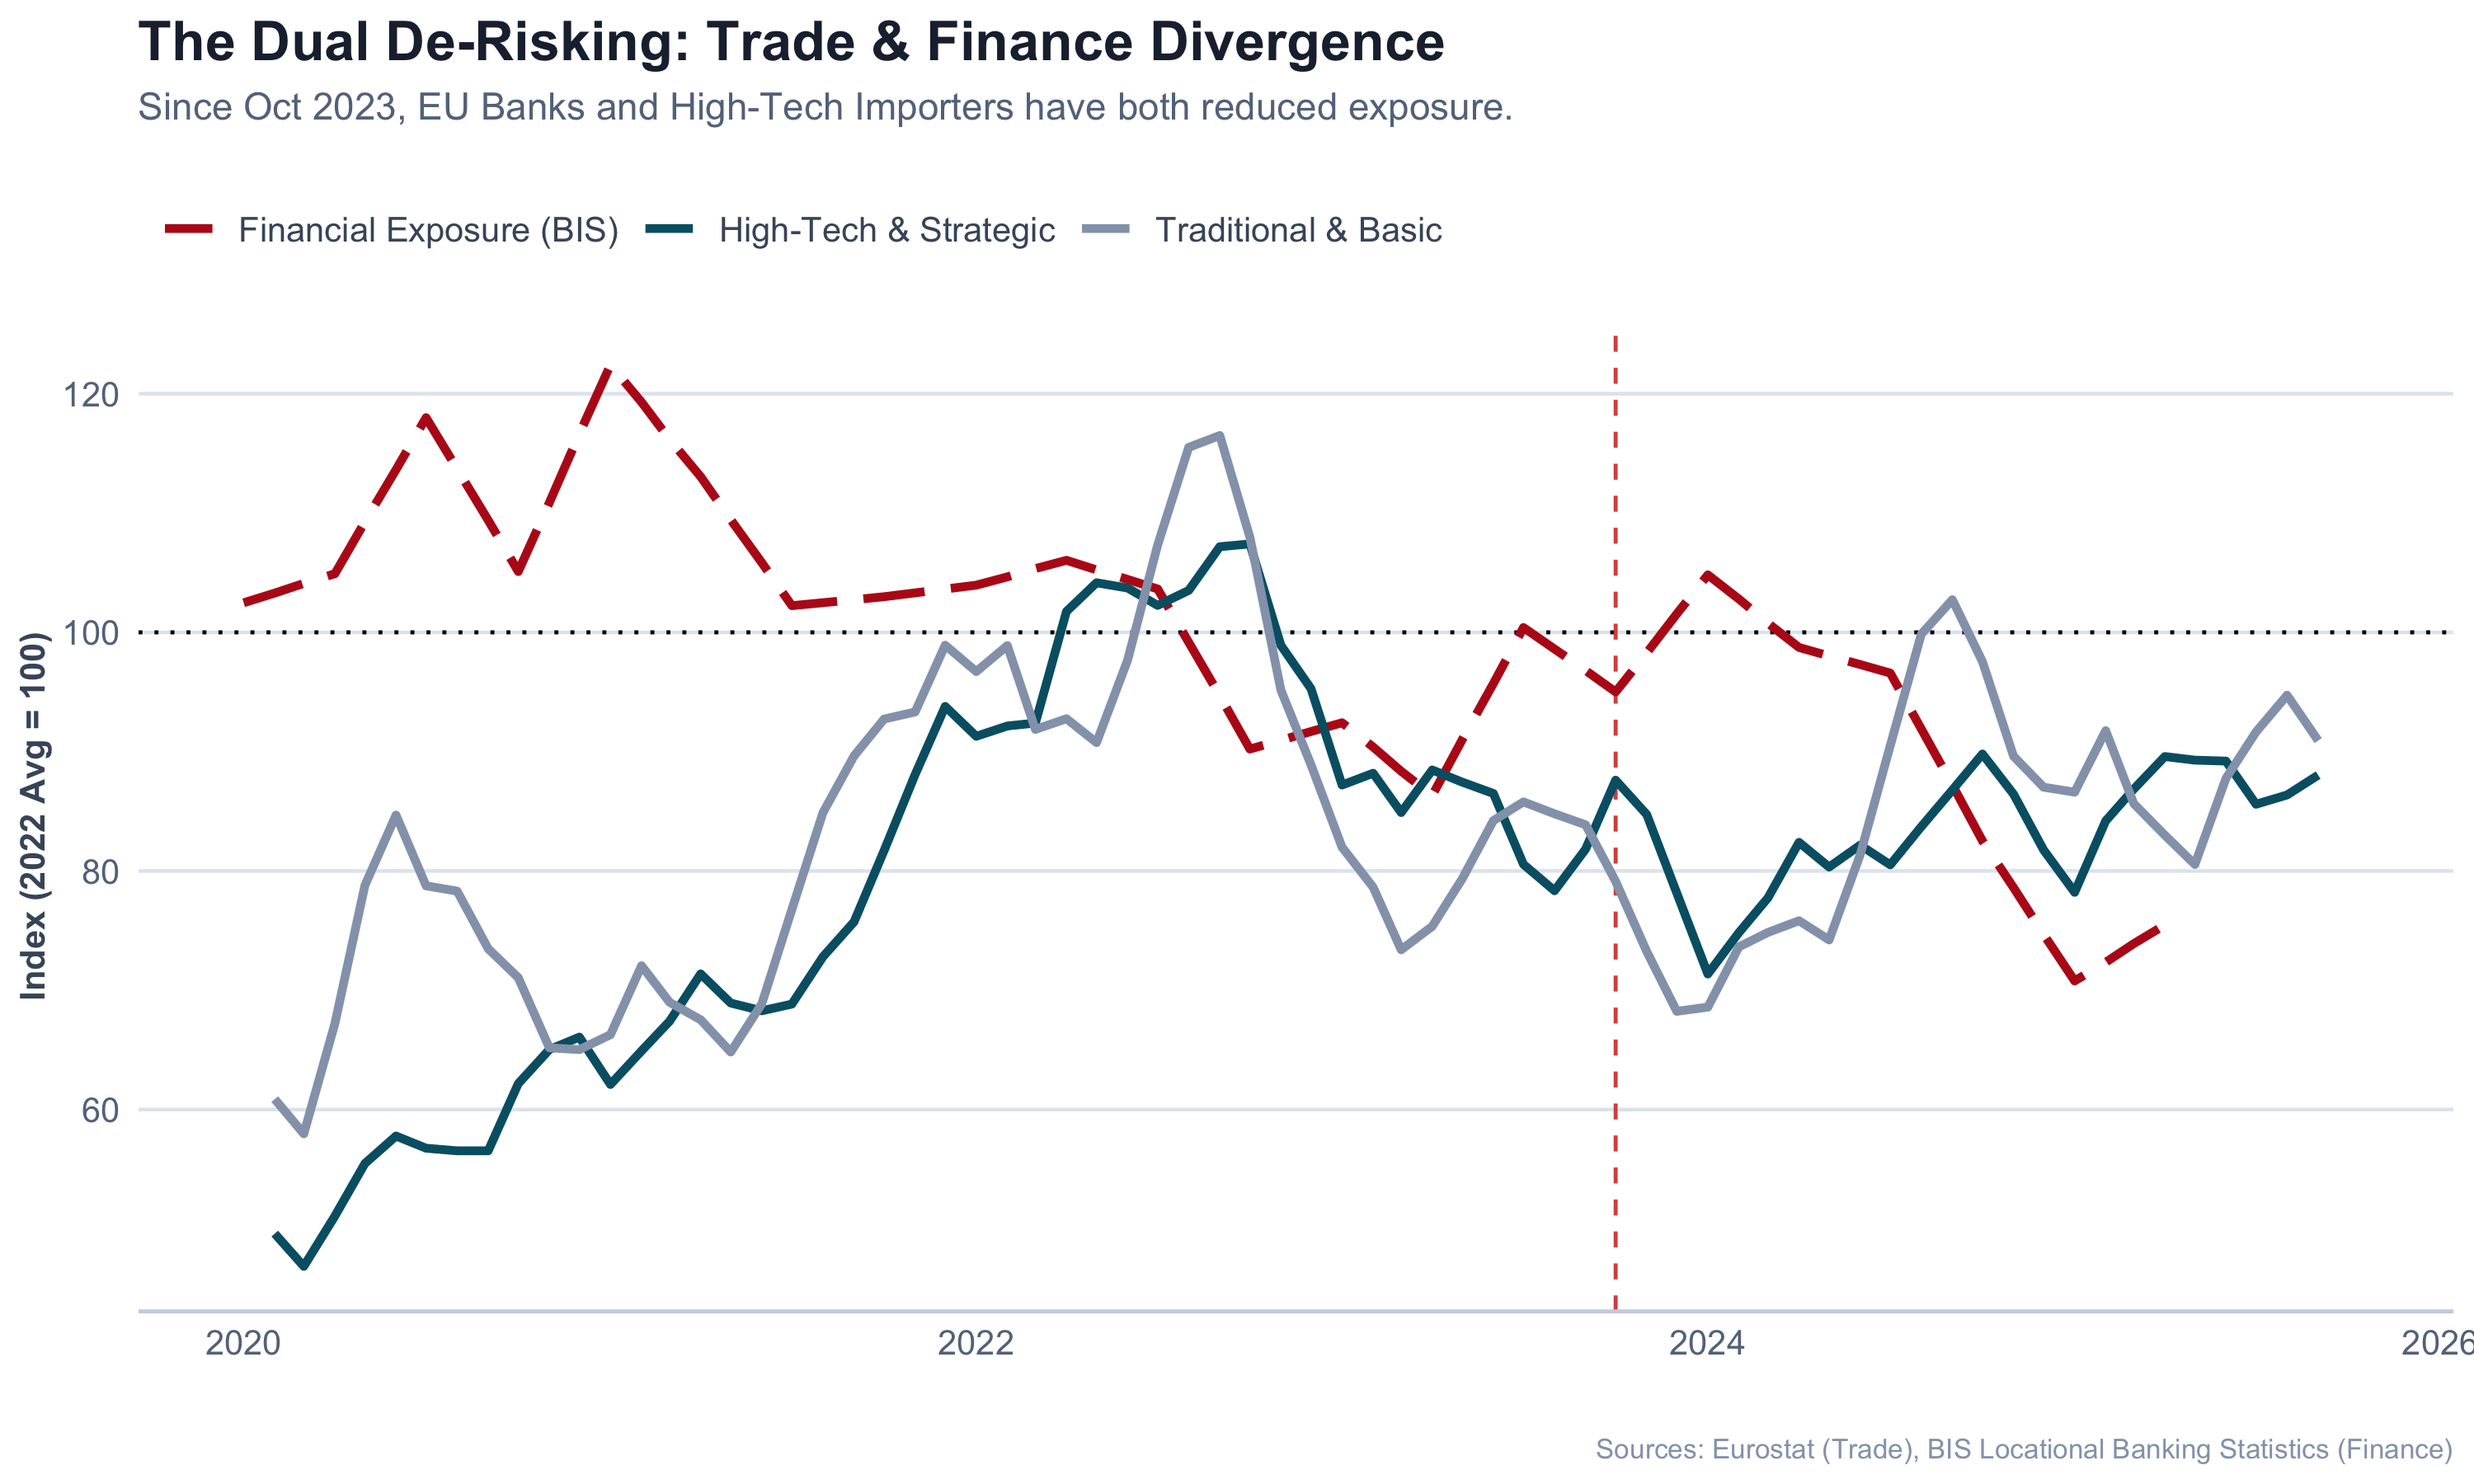
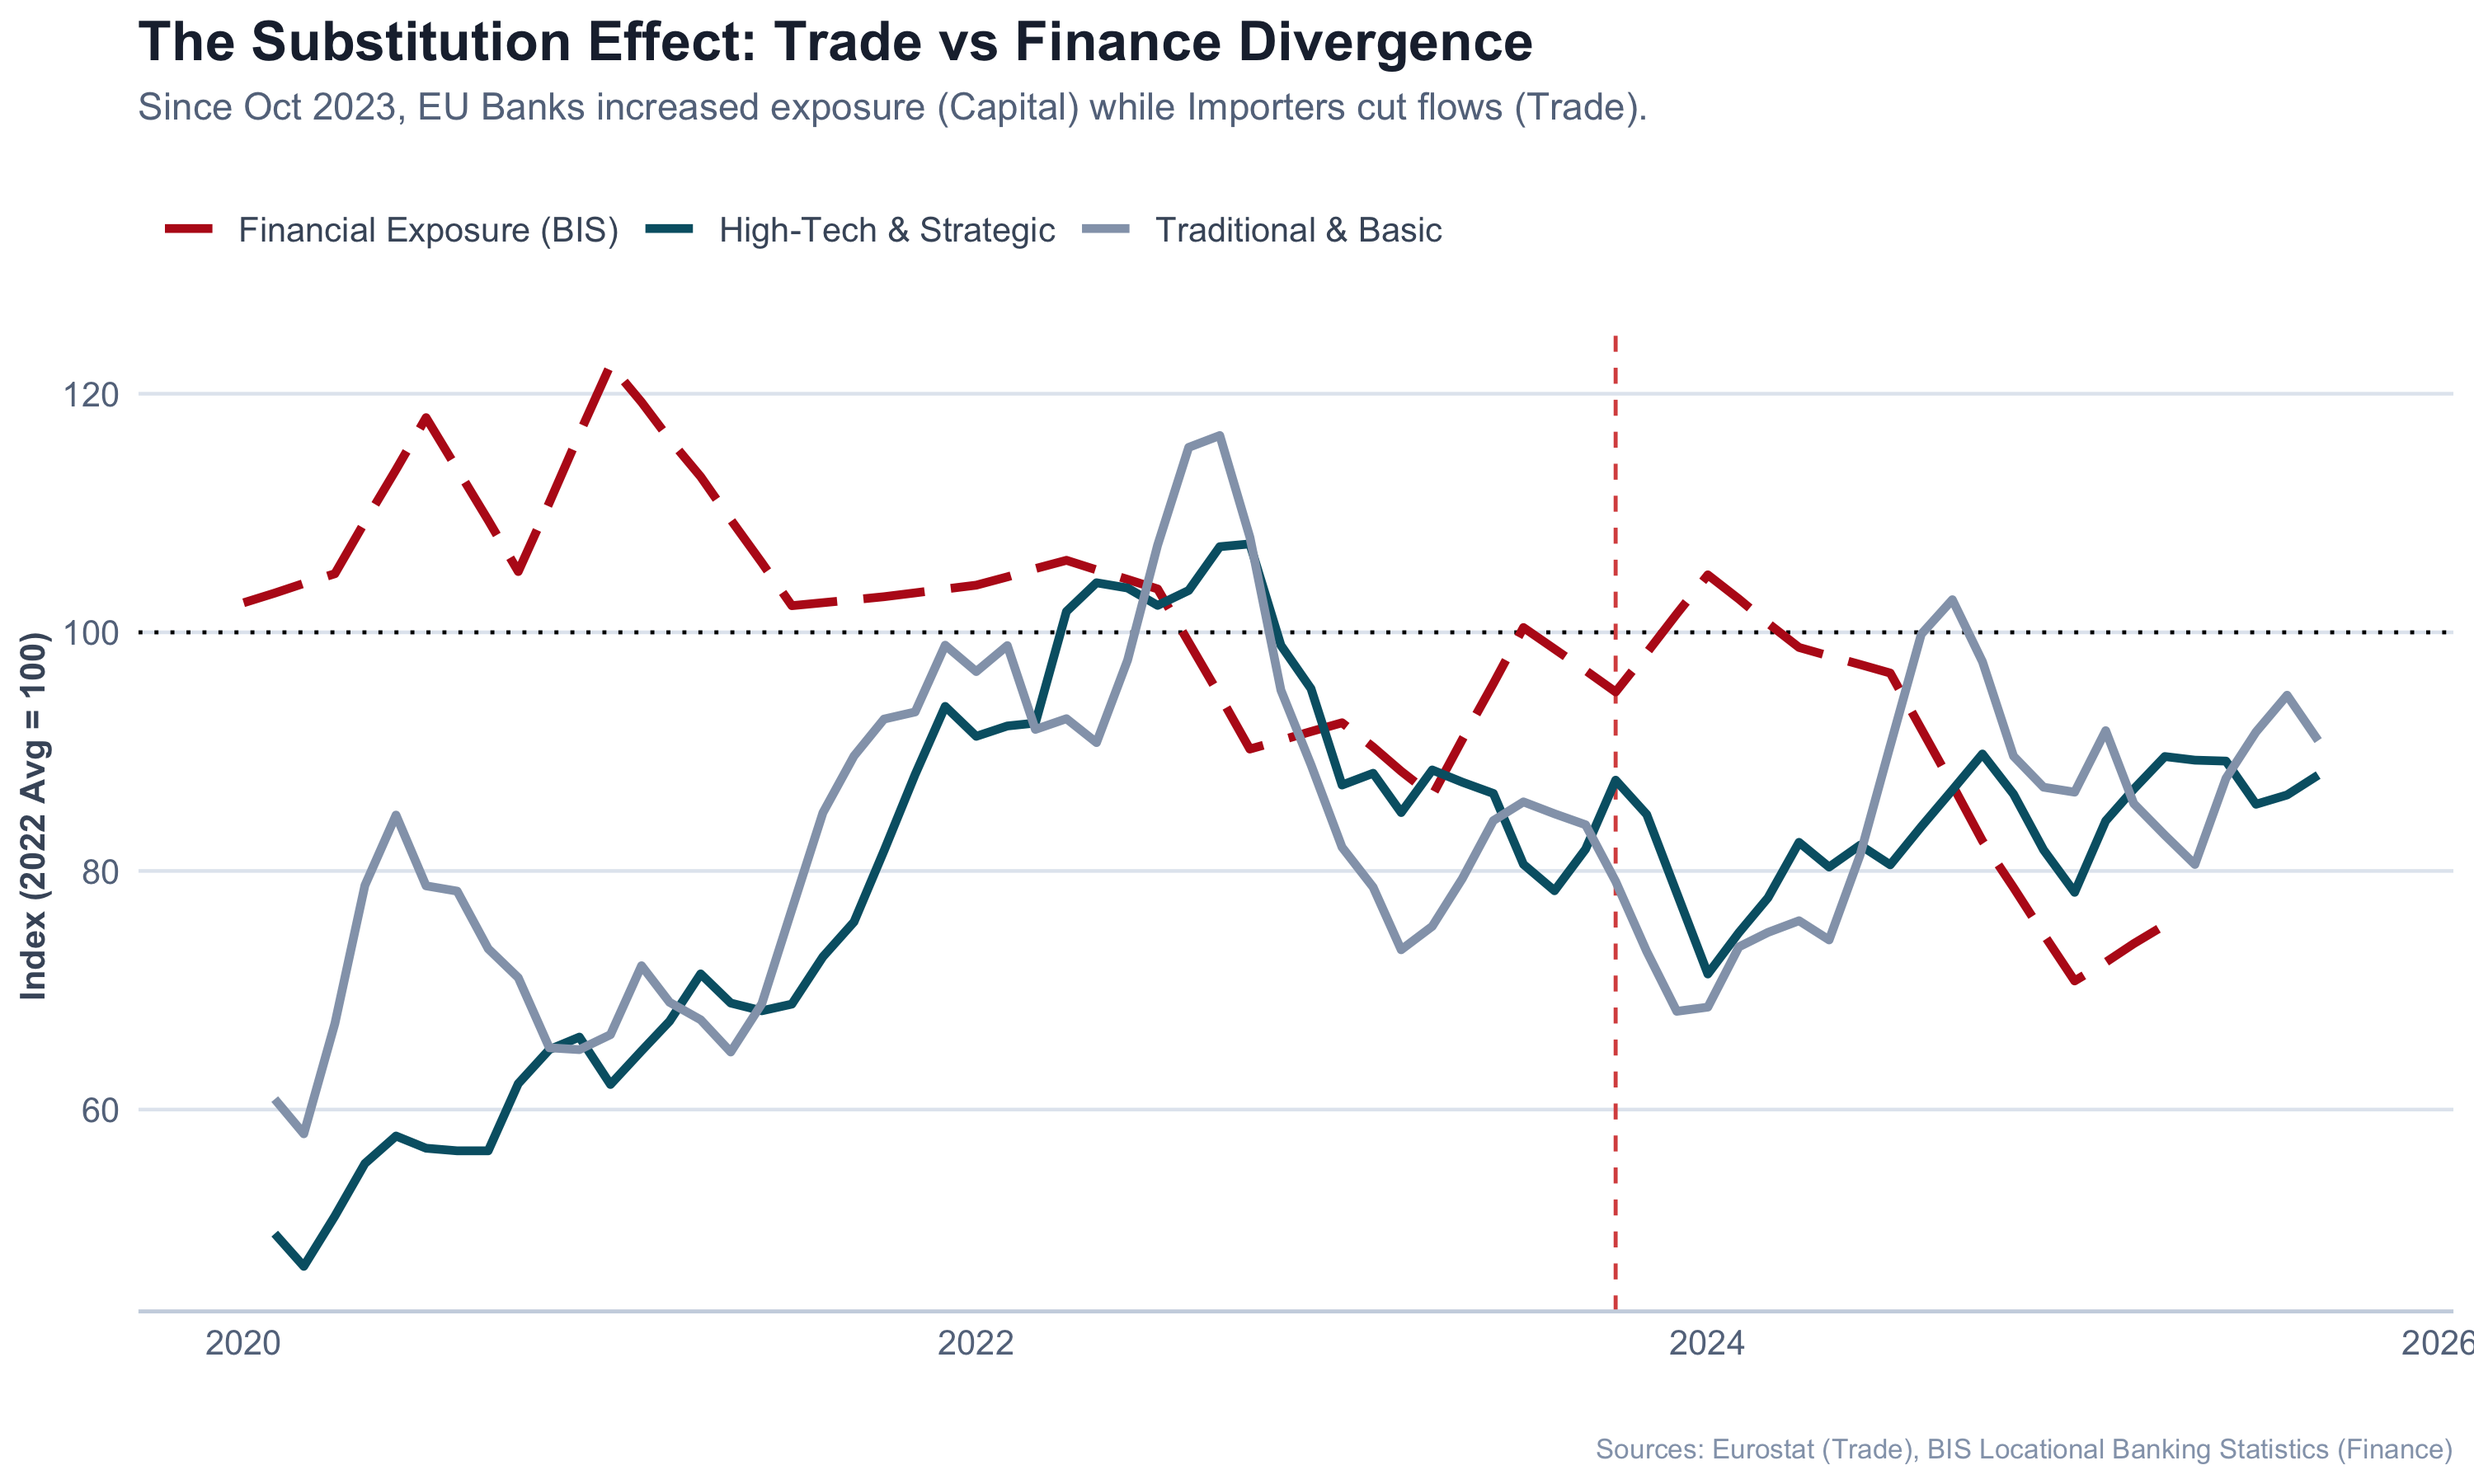
Updated interpretation

Changed region(s): [[0.093, 0.0, 0.651, 0.0933]]

diff --git a/README.md b/README.md
@@ -31,12 +31,12 @@ Visual and statistical analysis confirms a **structural divergence** beginning i
 
 ![Banking Claims & Forecast](20_Images/Dashboard_Middle.png)
 > **Panel 2: EU Banking Claims in CN & Trend Forecast.** The dashboard showcases the EU banking claims in CHINA and a possible forecast of future trends.
-> * Panel 2a (The "Claims"): Declining banking claims indicate financial de-risking - Eurozone banks are reducing their capital exposure to China. The synchronized decline with strategic trade suggests a coordinated 'dual de-risking' across both real economy (goods) and financial sectors.
+> * Panel 2a (The "Claims"): **The Localization Paradox.** While trade flows fell, banking claims *rose* post-Oct 2023. This reveals that EU firms are substituting imports with local production ("In China, For China"). To de-risk supply chains (fewer imports), companies paradoxically had to "re-risk" balance sheets (capital investment for local factories), driving up financial exposure.
 > * Panel 2b (The "Trend"): This forecast illustrates the 'New Normal'. Unlike the stable pre-2023 trend, the post-2023 trajectory shows a structural decline. If policy and market conditions remain unchanged, this model predicts where the relationship is heading.
 
 ![Trade & Finance Divergence](20_Images/Dashboard_Bottom.png)
-> **Panel 3: The Dual De-Risking Sighting (Index: Avg 2022 = 100).**
-> The structural decline in "Strategic" imports (Blue) is mirrored by a synchronized contraction in EU Banking Exposure (Red Dashed). This correlation confirms that "de-risking" is systemic, spanning both the real economy (goods) and the financial sector (capital), while "Traditional" trade (Grey) remains only mildly affected by the geopolitical shift since Oct 2023.
+> **Panel 3: The Substitution Effect (Index: Avg 2022 = 100).**
+> The structural decline in "Strategic" imports (Blue) is mirrored by a *divergent* rise in EU Banking Exposure (Red Dashed) after late 2023. This confirms a shift from **Trade Integration** (buying goods) to **Capital Integration** (funding local factories). The "break" in Oct 2023 triggered a "Local-for-Local" strategy: EU firms stopped importing but started investing to maintain market share.
 >
 ---
 

diff --git a/30_Report/report.md b/30_Report/report.md
@@ -223,23 +223,21 @@ integrate trade data with financial flows from the BIS to capture the
 
 ![](report_files/figure-commonmark/fig-scatter-1.png)
 
-Figure 2: Correlation between Financial Exposure and Strategic Trade.
-The positive slope suggests banks and importers are de-risking in
-tandem.
+Figure 2: The Localization Paradox. The divergence between rising financial exposure and falling strategic trade reveals a "Local-for-Local" substitution strategy.
 
 </div>
 
 As shown in Figure 4, the Wandel durch Handel paradigm has been replaced
-by a “dual-track” reality. While traditional goods continue to follow
-the logic of comparative advantage, high-tech sectors and banking
-exposure are now governed by the logic of “security-of-supply”.
+by a “substitution” reality. While traditional goods continue to follow
+the logic of comparative advantage, high-tech sectors are shifting from
+**Trade Integration** to **Capital Integration**.
 
 <div id="fig-unified">
 
 ![](report_files/figure-commonmark/fig-unified-1.png)
 
-Figure 3: The Dual De-Risking: Trade & Finance Divergence. Since Oct
-2023, EU Banks and High-Tech Importers have both reduced exposure.
+Figure 3: The Substitution Effect: Trade & Finance Divergence. Since Oct
+2023, EU Banks have *increased* exposure (Capital Investment) while Importers have *reduced* flows (Trade De-risking).
 
 </div>
 
